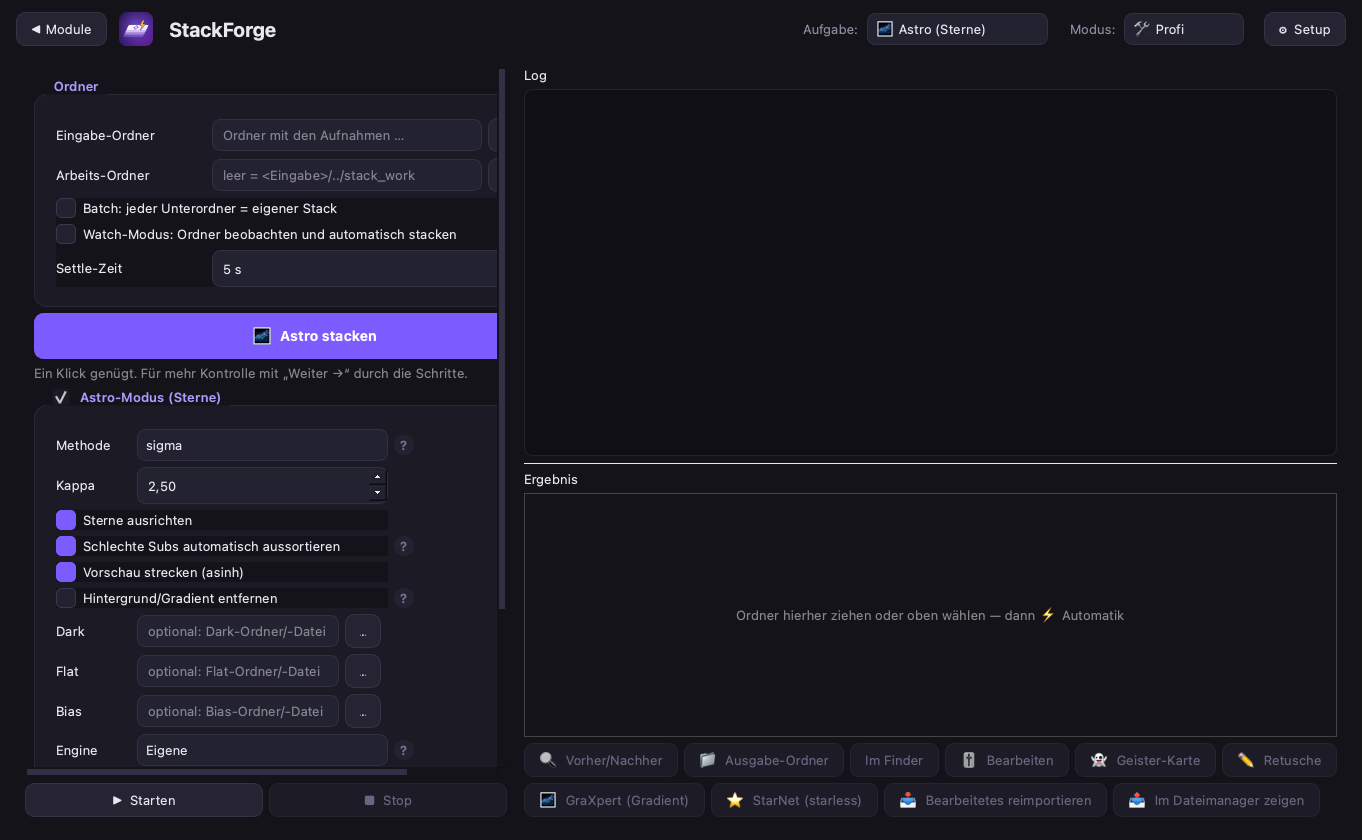
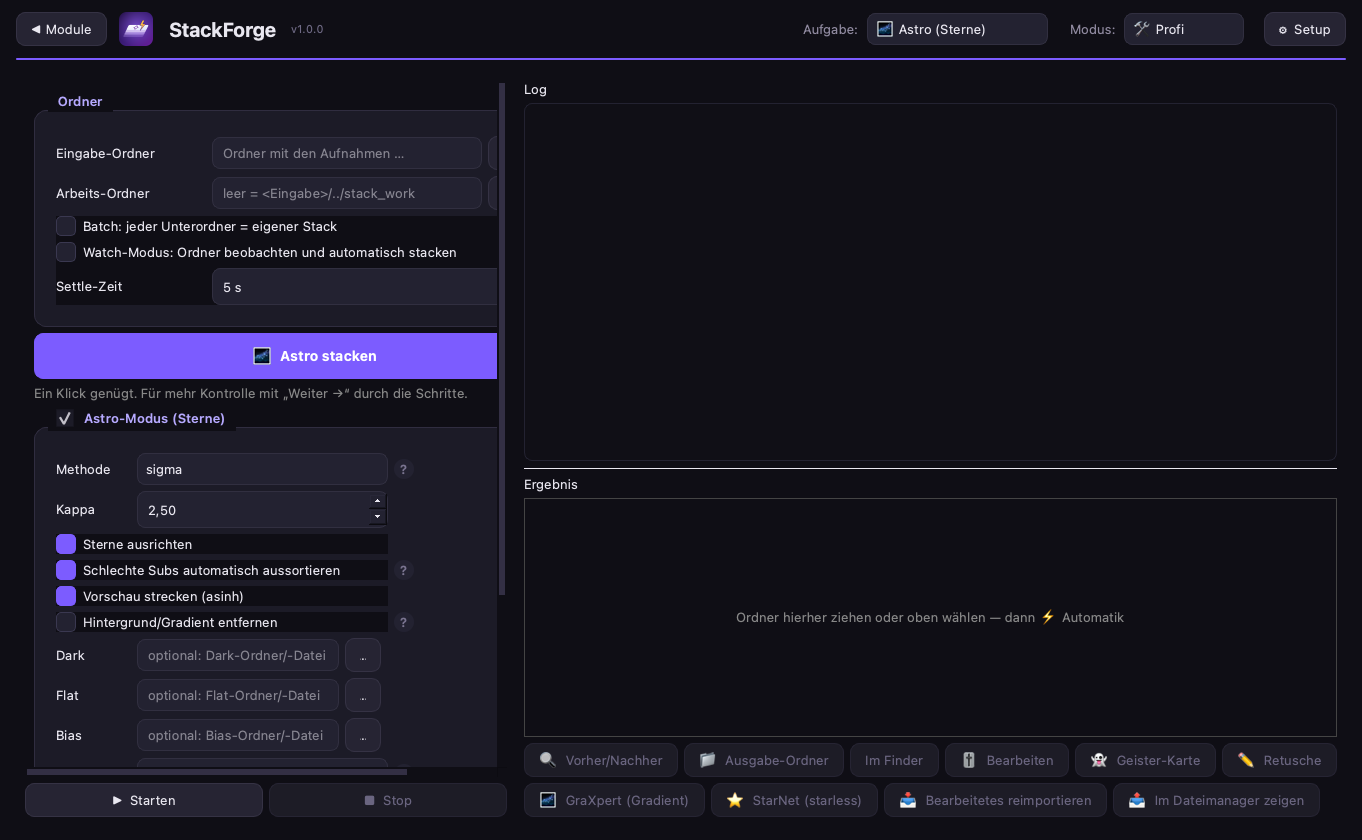
v1.0.0: Karten-Theme deutlicher (Canvas/Karten-Kontrast, Akzentlinie), Version im Header
- constants.VERSION = 1.0.0, im Header angezeigt
- Theme: dunklerer Canvas #0f0e15, abgehobene Karten #1c1b27, Akzentlinie unter Header, Gruppentitel mit Akzent
- frische README-Screenshots

diff --git a/ui/main_window.py b/ui/main_window.py
@@ -93,8 +93,14 @@ class MainWindow(QMainWindow):
             logo.setPixmap(QPixmap(ICON_PNG).scaled(34, 34, Qt.KeepAspectRatio, Qt.SmoothTransformation))
         title = QLabel("StackForge")
         title.setStyleSheet("font-size:20px;font-weight:700;letter-spacing:0.3px;")
+        try:
+            from constants import VERSION as _VER
+        except Exception:
+            _VER = ""
+        ver = QLabel(f"v{_VER}"); ver.setStyleSheet("color:#6f6a85;font-size:11px;")
         header.addSpacing(4)
         header.addWidget(logo); header.addSpacing(8); header.addWidget(title)
+        header.addSpacing(6); header.addWidget(ver)
         header.addStretch(1)
         task_lbl = QLabel(tr("Aufgabe:")); task_lbl.setStyleSheet("color:#908aa0;")
         header.addWidget(task_lbl)
@@ -117,6 +123,9 @@ class MainWindow(QMainWindow):
         setup_btn.clicked.connect(self.settings_dialog.show)
         header.addWidget(setup_btn)
         outer.addLayout(header)
+        accent = QFrame(); accent.setFixedHeight(2)
+        accent.setStyleSheet("background:#7c5cff;border:none;border-radius:1px;")
+        outer.addWidget(accent)
 
         # Sprache — wandert ins Setup-Menü
         self.lang_box = QComboBox()
@@ -1841,16 +1850,16 @@ class MainWindow(QMainWindow):
 
 
 THEME = """
-QWidget { background:#141319; color:#e9e7f0; font-size:13px; }
-QMainWindow, QDialog { background:#141319; }
+QWidget { background:#0f0e15; color:#e9e7f0; font-size:13px; }
+QMainWindow, QDialog { background:#0f0e15; }
 
-/* Karten/Gruppen — ruhige Flächen, dezente Ränder, mehr Luft */
+/* Karten/Gruppen — sichtbar abgehobene Flächen auf dunklem Canvas */
 QGroupBox {
-    background:#1c1b25; border:1px solid #2a2836; border-radius:12px;
-    margin-top:18px; padding:14px 12px 10px 12px; font-weight:600; }
+    background:#1c1b27; border:1px solid #302d40; border-radius:12px;
+    margin-top:20px; padding:16px 12px 12px 12px; font-weight:600; }
 QGroupBox::title {
-    subcontrol-origin:margin; subcontrol-position:top left; left:12px; padding:2px 6px;
-    color:#a99cff; font-size:12px; }
+    subcontrol-origin:margin; subcontrol-position:top left; left:14px; padding:3px 8px;
+    color:#b6a9ff; font-size:12px; font-weight:700; background:#0f0e15; }
 QGroupBox::indicator { width:18px; height:18px; }
 
 QLabel { background:transparent; }

diff --git a/constants.py b/constants.py
@@ -4,6 +4,8 @@ constants.py — gemeinsame Konstanten für StackForge (eine zentrale Definition
 damit Module nicht auseinanderlaufen).
 """
 
+VERSION = "1.0.0"
+
 # Kamera-RAW-Formate, die rawpy entwickeln kann
 RAW_EXTS = {".arw", ".cr2", ".cr3", ".nef", ".raf", ".rw2", ".dng", ".orf", ".pef", ".srw"}
 